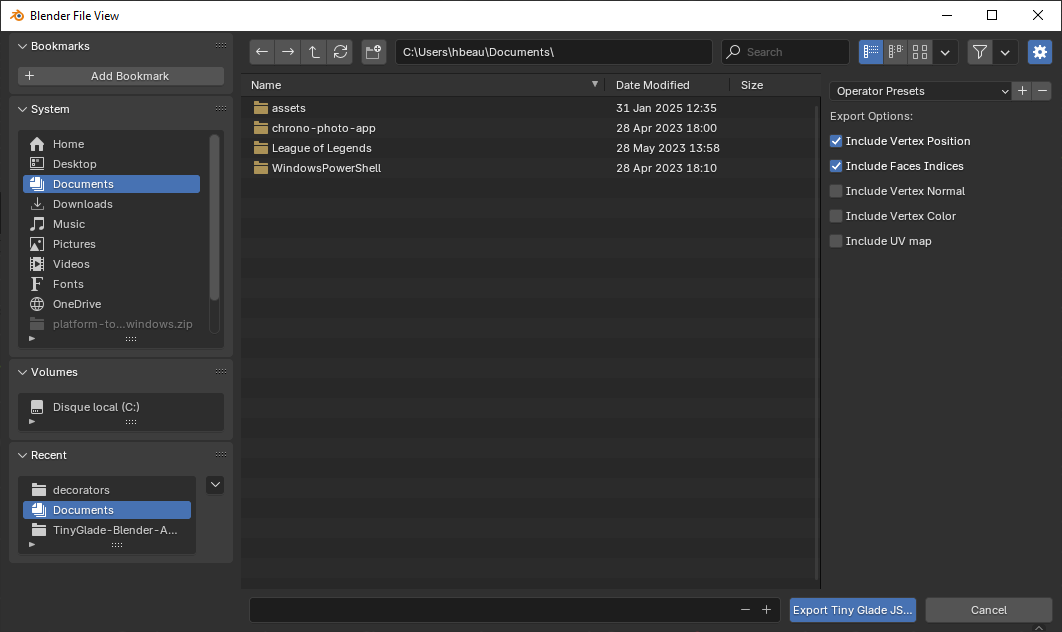
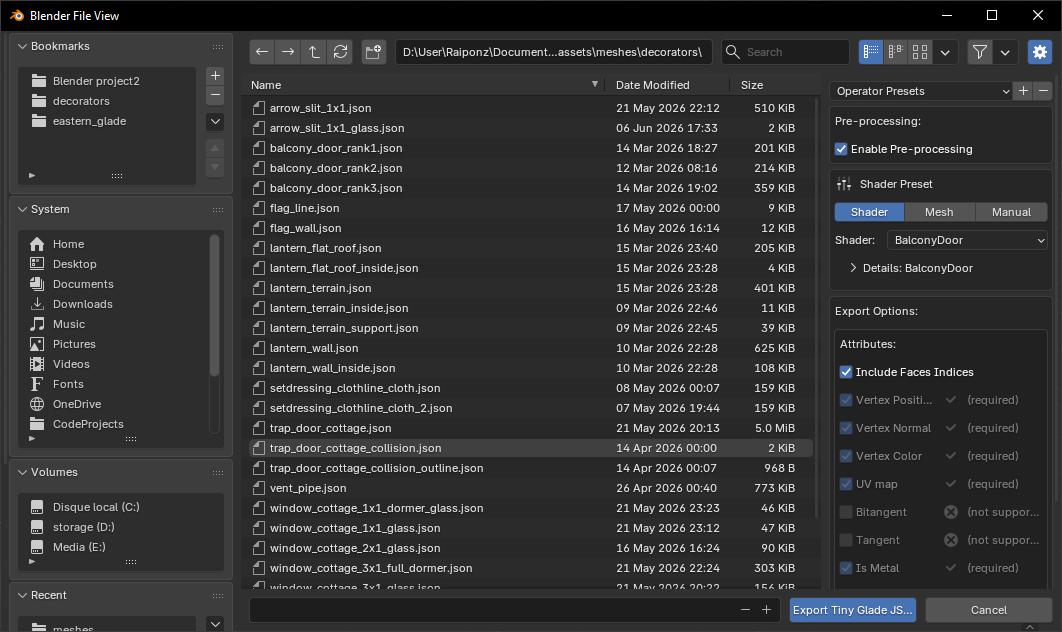
improve mesh edit with blender

diff --git a/docs/modding-tools/mesh-edit-with-blender.md b/docs/modding-tools/mesh-edit-with-blender.md
@@ -23,30 +23,51 @@ The **Tiny Glade Blender Add-On** lets you easily **import and export** [Tiny Gl
 
 1. In Blender, go to **File → Import → Tiny Glade JSON (.json)**.
 2. Select your mesh file and click **Import**.
+3. if you will to import a tree, chose the right option on top right
 ![import window](import.jpg)
 
-Your object will appear in Blender as **"Tiny Glade Object"**.
+Your object will appear in Blender as with it name like  **"lantern_terrain"**.
 
 ### **Supported features:**
-- **Vertex positions** and **faces** import correctly.  
-- **Normals** may sometimes be inverted—double-check them!  
-- **Vertex colors** are poorly supported (may need manual adjustment).  
-- **UV maps** are not well supported.  
+The **Normal Mesh**(well named in oppostion of tree mesh) import support most of the attribute : `Vertex_Position` , `Vertex_Color`, `Vertex_Normal`, `UV_map` and flags like `is_metal_part`, `is_glass` and `is_tip`
+that's include every decorator, every clutter and most of the static meshes.  
+!!! info
+    Birds and ducks are not yet supported. you can still import them but some feature will be missing
 
-*Other mesh attributes are not currently supported.*
+the [Trees](../game-knowledge/objects/trees.md) import use a different pipeline. it will import the color correclty by spliting `UV_Map` from the canopy flag. It also import `prim_center` and `appear_pos` in separated meshes
 
 ---
 
-## Modeling Tips
-### Triangulate faces
-**Why:** Tiny Glade expects *triangles*. Quads or n-gons can cause incorrect color mapping and rendering artifacts. 
-**How:**     
-- Enter *Edit Mode*: select the whole mesh (`A`).  
-- Press `Ctrl+T` or use `Mesh → Faces → Triangulate Faces` to convert faces to triangles.  
-- For a non‑destructive workflow, add a *Triangulate* modifier (Object `Properties → Modifiers → Add Modifier → Triangulate`) — then **apply it before export**.  
+## Exporting Tiny Glade Meshes
+### Normal Meshes
+Mesh export will convert your blender object into a JSON file readable in the game. Not every meshes work the same way, there are a lots of differents shaders that require differents properties.  
+The export tool will guide you in the export and ddo a lot of work for you. To export follow the steps below :  
+![export window](blender-exportation-2.png)
+
+1. Select your object in **Object Mode**.
+2. Go to **File → Export → Tiny Glade JSON (.json)**.
+3. Choose a file name matching the asset you want to replace.
+4. Select in the right panel the export settings
+  a. the pre-process pipeline will do a bunch of operation for you : apply modifiers,split edges, triangulate. leave it enable unless you know what you are doing
+  b. select a shader or a specific mesh to load the preset of attributes to export.if you're brave enough, use the manual option to select attributes by yourself.
+5. Click on the export button and get your file 🎉
 
 !!! info
-    If you use modifiers, **apply them in Object Mode before exporting** so the exported geometry matches the viewport.
+    Export may change the order of vertex and faces, that can cause trouble especially when you animate sheep
+
+### Trees meshes
+Tree meshes also require a special export pipeline. you find the export window in  **File → Export → Tiny Glade Tree JSON (.json)**.
+![tree export window](blender-exportation-tree.png)
+the export windows look pretty the same as the normal mesh export window, but it will ask you to add two extra meshes for the `appear_pos` and `prim_center` attributes.
+The `age` attribute is required for some trees, toggle the option if needed. (by default the age is set to 0.5, you can change it with the slider).
+
+!!! tip
+    Before exporting, make sure the tree is correctly setup with the canopy flag and the UV map for the leaves. see [Trees](../game-knowledge/objects/trees.md) for more details.
+
+
+
+## Modeling Tips
+
 
 ### **Apply vertex colors**
 **Why:** The game reads per-vertex color data. Paint on the final (triangulated) mesh so colors align with exported vertices.  
@@ -68,10 +89,9 @@ Your object will appear in Blender as **"Tiny Glade Object"**.
 - To flip specific faces, select them and use `Mesh → Normals → Flip`.  
 - Visualize normals via *Overlays → Face Orientation* or enable normal display in *Viewport Overlays*.  
 
-**Notes:**
-- If your shader relies on split normals, either clear custom split normals (`Mesh → Normals → Clear Custom Split Normals Data`) or export proper normal data.
 
 ### **Split edges (preserve sharp edges)**
+_by default, the export tool will split edges for you, but if you want to do it manually, here is how to do it._
 **Why:** Sharp edges often require duplicated vertices so normals and vertex colors don’t interpolate across a hard seam.  
 **How:**  
 - Option 1 (modifier): In *Object Mode* add an *Edge Split* modifier (`Modifiers → Add Modifier → Edge Split`), choose *Sharp Edges* or angle threshold, then **Apply**.  
@@ -91,31 +111,15 @@ Your object will appear in Blender as **"Tiny Glade Object"**.
 **How:**  
 - After triangulating and splitting edges, enter *Vertex Paint* and do a complete fill (Bucket Fill) to set a color for every vertex.  
 - Verify vertex count and color layer length match: open the object’s *Color Attributes* and confirm the layer exists and covers the mesh.  
-- As a final check, export a test JSON and inspect the color arrays or re-import to verify no vertex is uncolored.  
 
-### **Quick checklist before exporting**
-- Mesh is **triangulated** and modifiers **applied**.  
-- Vertex color layer **exists** and is **active**.  
-- Normals face outward (`Shift+N`) or flipped where appropriate.  
-- Edge Split or equivalent **applied** for sharp seams.  
+!!! tip
+    It's also possible to bake a texture to vertex color using "Bake". it requires a mesh with many vertices to have a good result. se in the exemple below, the texture is baked to vertex color on a 21k vertices mesh. the result is not perfect but it works well in game. 
+    ![baked texture](baked_texture.jpg) { width=320px }
+    [here is a tutorial on how to bake a texture to vertex color](https://blender.stackexchange.com/questions/271985/how-to-bake-texture-to-vertex-colors)
 
-!!! danger
-    **Missing vertex colors will crash the game!**  
-    Always ensure every vertex is painted.
 
 ---
 
-## Exporting Tiny Glade Meshes
-
-1. Select your object in **Object Mode**.
-2. Go to **File → Export → Tiny Glade JSON (.json)**.
-3. Choose a file name matching the asset you want to replace.
-4. In the right panel, select the required attributes for your mesh.
-![export window](export.jpg)
-!!! info
-    Export change the order of vertex and faces, that can cause trouble especially when you animate sheep
-
----
 
 ## Video Tutorial
 
@@ -165,26 +169,21 @@ The two most common causes are:
 
 ---
 
-### 2. Colors Are Incorrectly Placed
+### 2. N-gons
+![N-gon example](ngons_render.jpg){align=right width=320px }
+Be careful to N-gons, they are faces with more than four sides, they can appear in the mesh when you bevel edges or add cylinders for example. if you leave N-gons, the triangulation will be unpredictable and will cause problems in the game.  
 
-If your mesh has strange or misplaced colors, it’s usually because the original object had quad faces instead of triangles.
+<br><br><br>
 
-![cube quad](cube_paint.jpg)
+To find n-gons in your mesh, go to **Edit Mode → Select → Select All by Trait Faces by Sides** and choose **Greater Than 4**. make sure to be in **Select Mode : Face**.
+After that, you can either delete the face and fill it with quads.
+![n-gon selection](select-ngons.jpg)
+You don't need to triangulate the mesh, the export tool will do it for you unless if you disable the **Pre-process**
 
-**Solution:**  
-Always triangulate faces before painting colors.  
-Go to **Edit Mode → Select All → Faces → Triangulate Faces**.
 
----
+### 3. Tree leaves 
+Tree use [billboard](https://www.opengl-tutorial.org/intermediate-tutorials/billboards-particles/billboards/) to render the leaves, so they always face the camera. it looks like it really dislike when the leave square face upward, so always set an angle to the leaves. then do no edge split on the leaves(it appears to be worse). each face should be a quad, and the UV map should be set to the four corners of the 0-1 square. see [Trees](../game-knowledge/objects/trees.md) for more details. 
 
-### 3. Item Looks Dark or Transparent
-
-If your item appears too dark or transparent in-game, the normals are probably inverted.
-
-![cube normal inverted](cube_normal_inverted.jpg)
-
-**Solution:**  
-In Blender, select your mesh, go to **Edit Mode → Mesh → Normals → Recalculate Outside** to fix the normals.
 
 ---
 

diff --git a/docs/game-knowledge/objects/trees.md b/docs/game-knowledge/objects/trees.md
@@ -39,11 +39,10 @@ expects some unusual vertex attributes:
 
 ![Tree colour encoding](UV_map.png)
 
-* **`appear_pos`** – In my comprehention, it's thethe center point of each quad used for billboard rendering.
+* **`appear_pos`** – In my comprehention, it's the center point of each quad used for billboard rendering.
     The game uses this to place the billboards correctly when drawing distant trees.
-  (Tom, if you can add a better description here, please do.)
 * **`prim_center`** – similar to `appear_pos` but tied to the original vertex position.
-  It isn’t well‑documented; feel free to write a few sentences explaining its purpose.
+  It isn’t well‑documented
 
 ## Blender Add‑on (v1.3+)
 